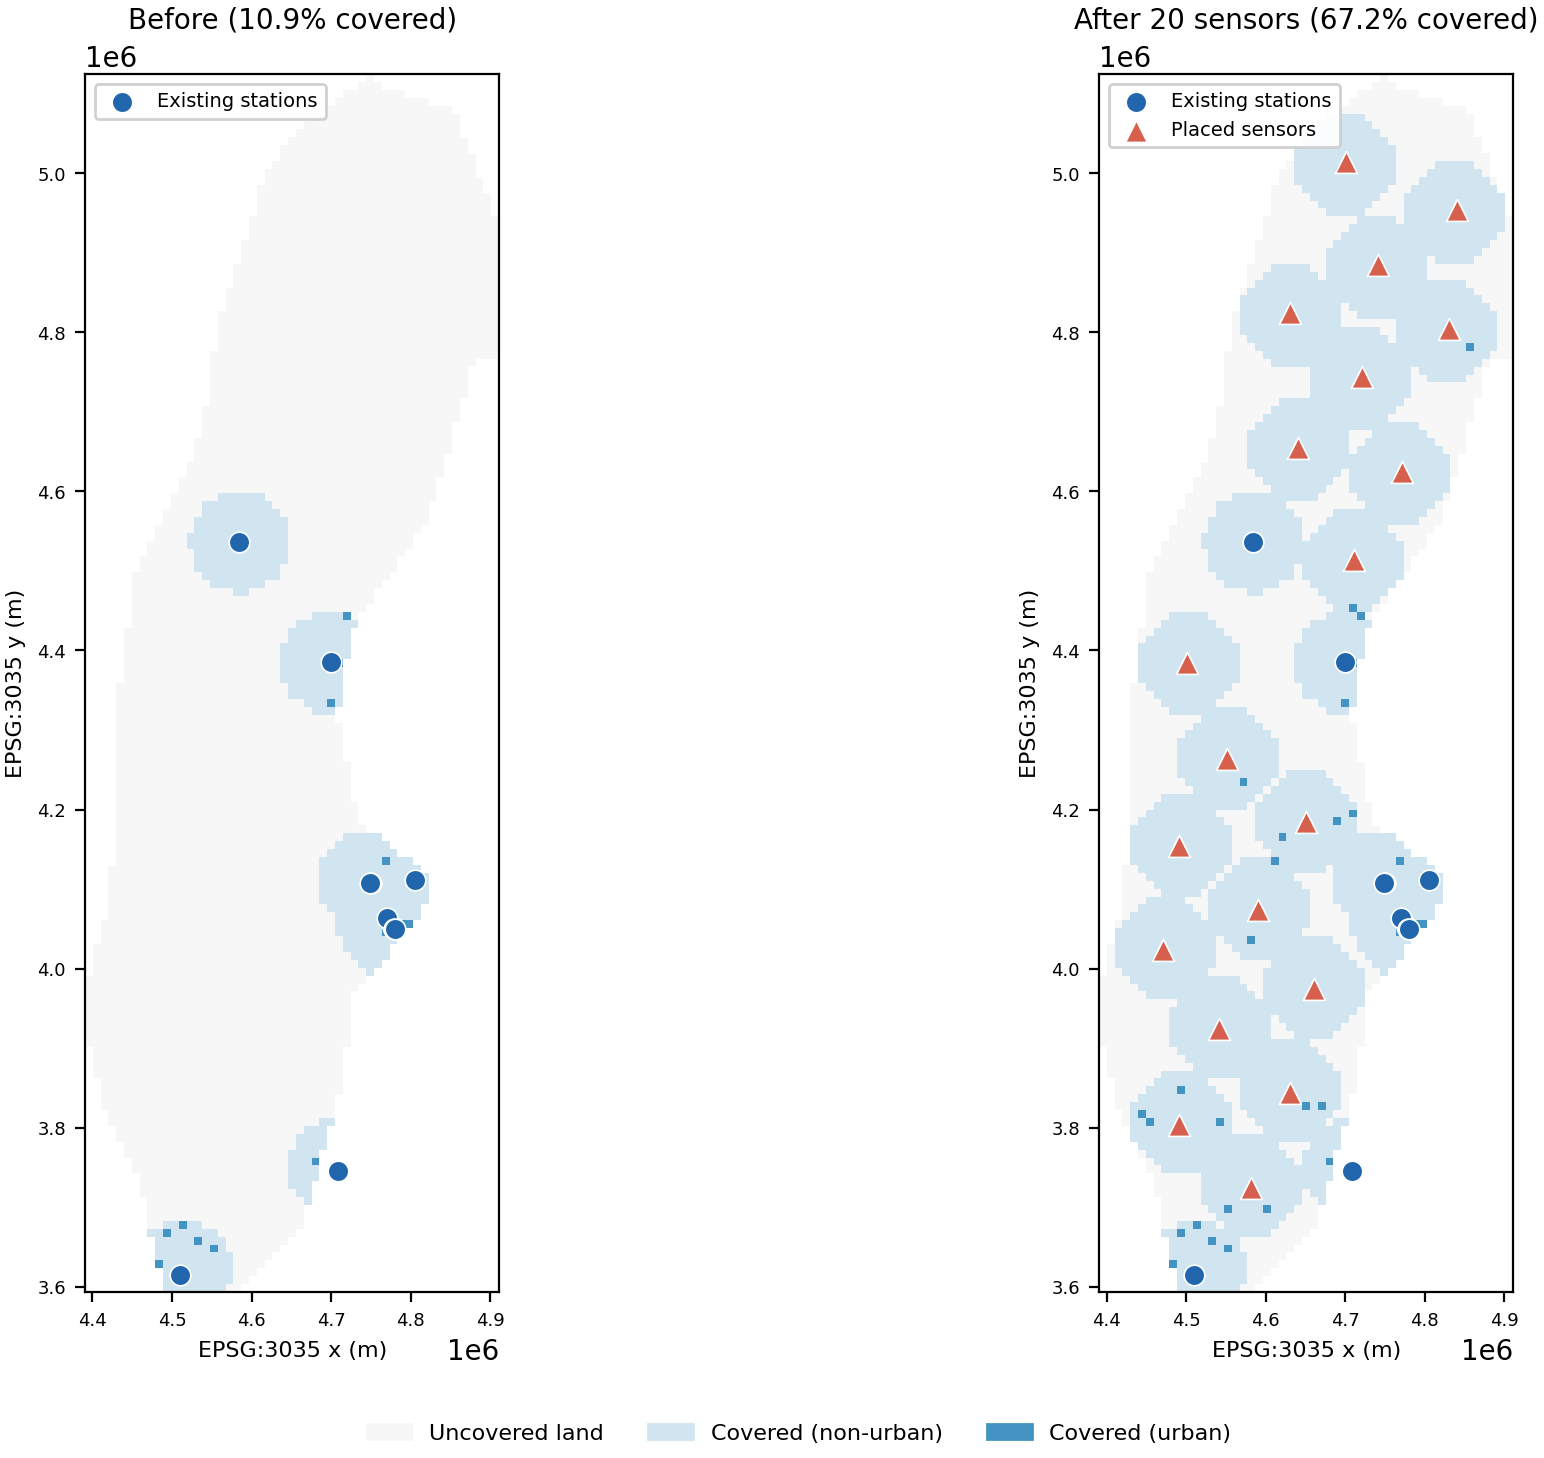
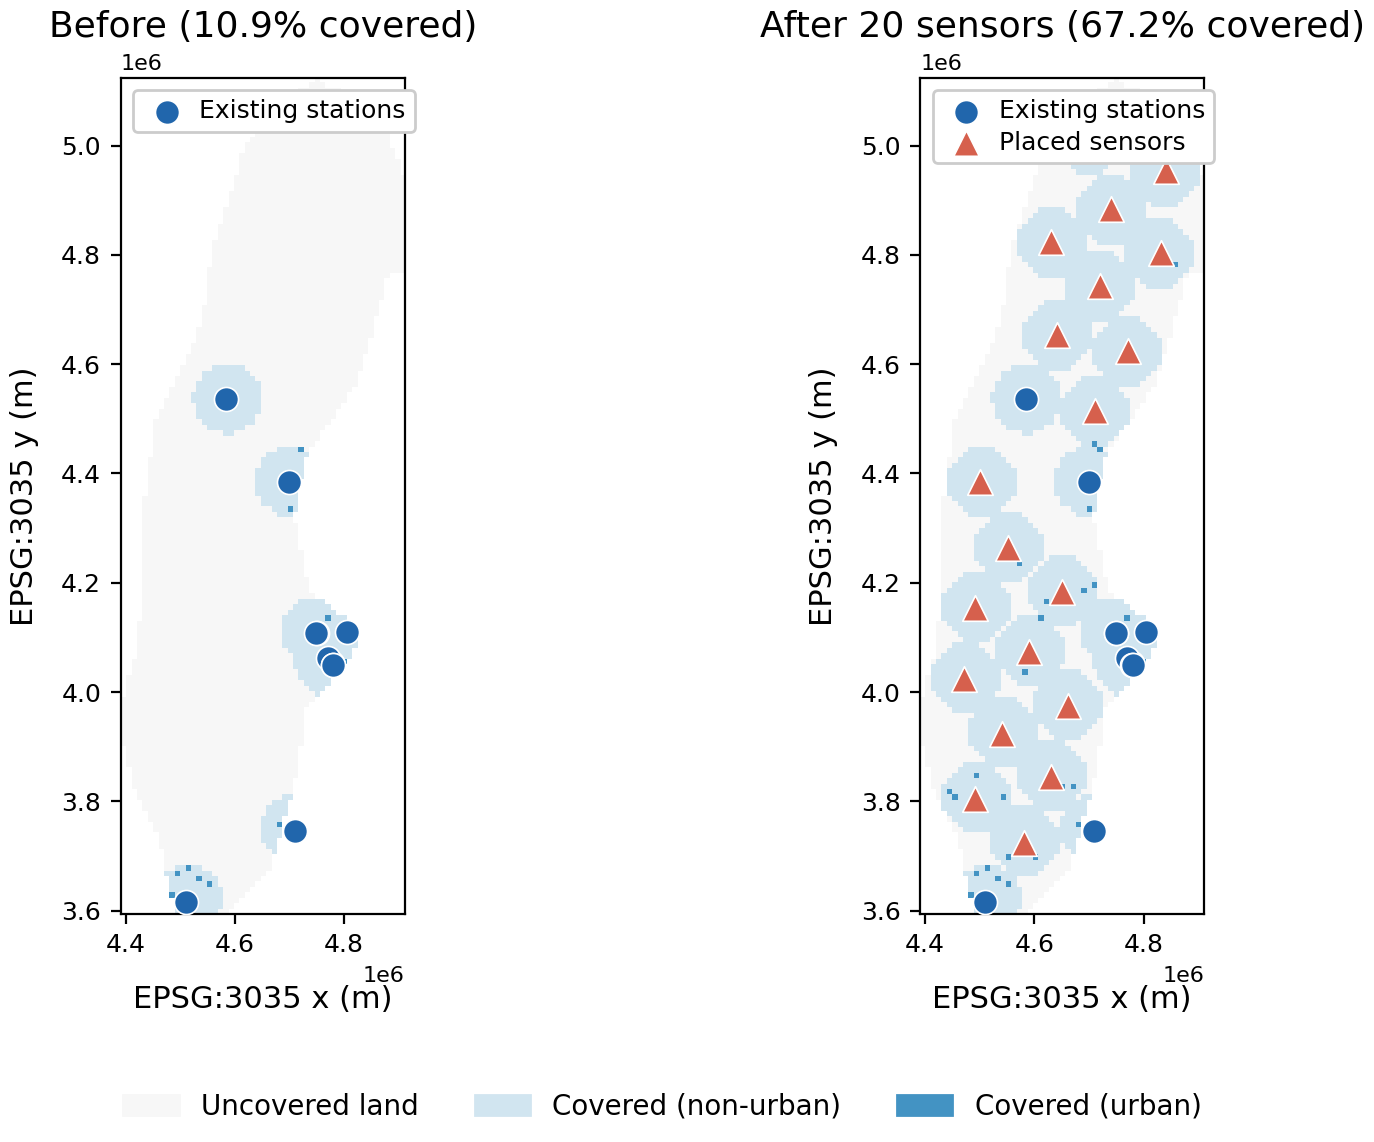
IEEE paper: single-column coverage figure; fix Table II column drift
- Regenerate fig_coverage_before_after_ieee.png for single-column display:
  larger fonts/markers, fixed label/offset-text collision, opaque legend
  (previously showed a data marker bleeding through).
- Switch Fig. 3 from figure* (0.68\textwidth) to a single-column figure at
  \columnwidth, matching Figs. 1-2.
- Table II (tab:integrated): [t] -> [!ht] so it can render in the same
  column as the paragraph that cites it instead of always jumping to the
  top of the next column.

Claude-Session: https://claude.ai/code/session_01TYqEQeJ4nzkbF1P1LeZ26z

diff --git a/writing/IEEE-conference.tex b/writing/IEEE-conference.tex
@@ -399,7 +399,7 @@ threshold in RQ2, which sets the sensor budget required for national coverage
 in RQ3, so a placement sized for PM$_{2.5}$ is by construction inadequate for
 NO$_2$ at comparable cost.
 
-\begin{table}[t]
+\begin{table}[!ht]
 \caption{Integrated results across the three research questions. Mean RMSE in
 $\mu$g\,m$^{-3}$; coverage as land area / urban area, before $\rightarrow$
 after the 20-sensor placement.}
@@ -418,16 +418,16 @@ RQ3: urban coverage & 38.8\% $\rightarrow$ 71.4\% & 6.1\% $\rightarrow$ 6.1\% \\
 \end{tabular}
 \end{table}
 
-\begin{figure*}[!t]
+\begin{figure}[t]
 \centering
-\includegraphics[width=0.68\textwidth]{fig_coverage_before_after_ieee.png}
+\includegraphics[width=\columnwidth]{fig_coverage_before_after_ieee.png}
 \caption{PM$_{2.5}$ national coverage before (left) and after (right) 20
 greedy placements, at the 64~km reliable prediction threshold. Grey cells are
 beyond threshold; blue cells are covered land, with darker blue for covered
 urban fabric. Circles mark existing stations; triangles mark recommended
 sensor locations. Grid resolution 10~km.}
 \label{fig:coverage}
-\end{figure*}
+\end{figure}
 \FloatBarrier
 
 \section{Discussion}
